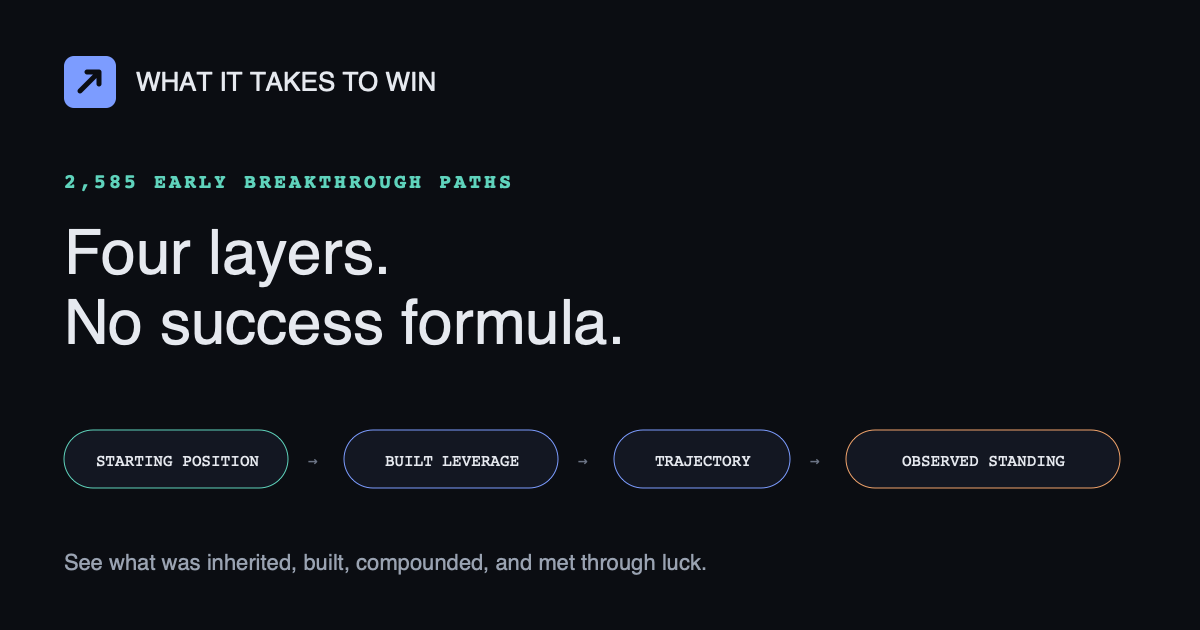
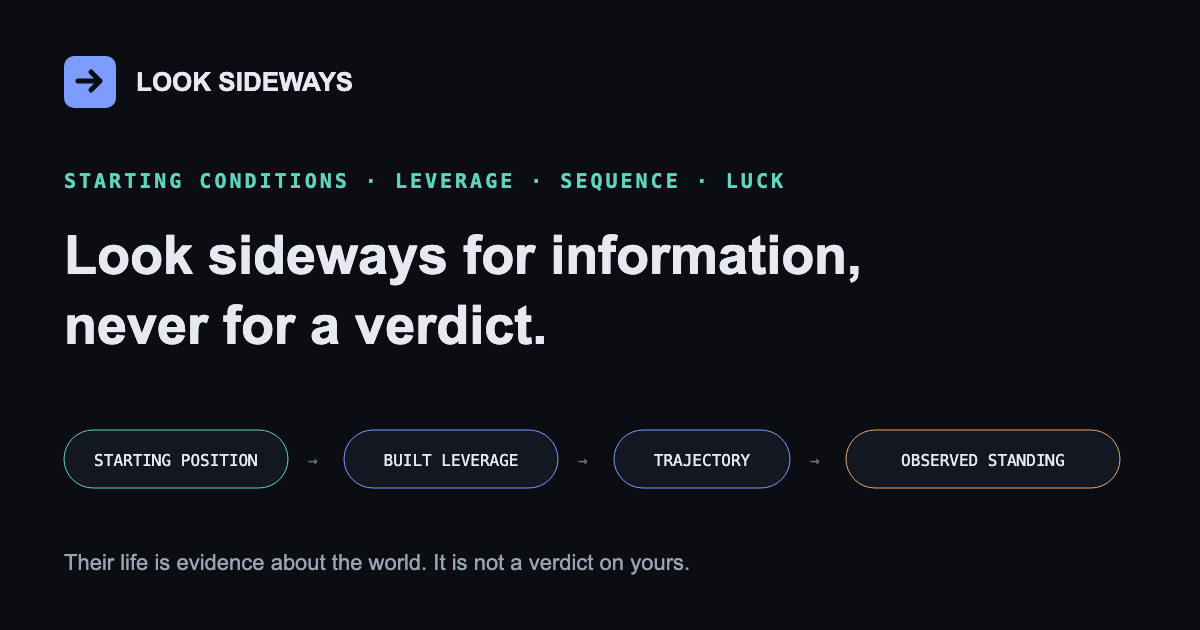
feat: rename the exhibit to Look Sideways
"What It Takes to Win" promised a recipe for winning — the premise this
project exists to dismantle. A reader arriving on that name was handed a
refusal, which is a bait-and-switch even when the refusal is the honest
answer. The infra name success-by-26 encoded the same thing with a deadline
attached.

The new name comes from the closing line of the project's own essay: look
sideways for information, never for a verdict. The domain has been
paths.significanthobbies.com all along — the product name had drifted away
from its own URL.

Also here:

- The brand mark changes from an up-right growth arrow to a sideways one.
- The default meta description was both off-thesis ("What early conditions
  accelerate breakthroughs?") and stale by 1,077 people; it is now
  build-derived.
- The share card led with the old wordmark over "2,700+ EARLY BREAKTHROUGH
  PATHS", stale by 877. The count is removed rather than corrected: a
  hand-exported PNG cannot track a growing dataset, and the live figure
  already sits in the build-derived og:image:alt. `pnpm run render:og`
  rasterizes the SVG so this stops being a manual step.
- The launch changelog entry and the 2026-07-22 timeline line keep the old
  name. The site did launch as "What It Takes to Win", and a project that
  publishes a changelog should not quietly edit its own past.

Scope is the product name only. The Pages project, GitHub repo, package
name, and PostHog identifiers are unchanged; renaming the analytics project
[…]

diff --git a/AGENTS.md b/AGENTS.md
@@ -11,7 +11,8 @@ and record durable follow-up in this repository's GitHub Issues.
 - **Local dev**: `pnpm run dev`
 - **Build/check**: `pnpm run check` then `pnpm run build`
 - **Deploy**: `pnpm run deploy` to Cloudflare Pages project `success-by-26`
-  (the internal infrastructure name; the product is **What It Takes to Win**)
+  (a legacy infrastructure name kept to avoid a redeploy; the product is
+  **Look Sideways**)
 
 ## Work tracking
 

diff --git a/public/assets/story/README.md b/public/assets/story/README.md
@@ -1,6 +1,6 @@
 # Story world assets
 
-These five scene plates were generated specifically for *What It Takes to Win*
+These five scene plates were generated specifically for *Look Sideways*
 with OpenAI's built-in image generation on 2026-08-14, then converted to WebP
 for the canonical `/` landing journey. They are fallback artwork; the primary
 experience is a continuous procedural Three.js observatory rendered by
